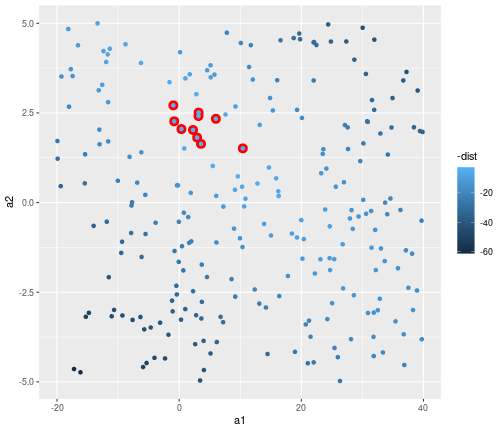
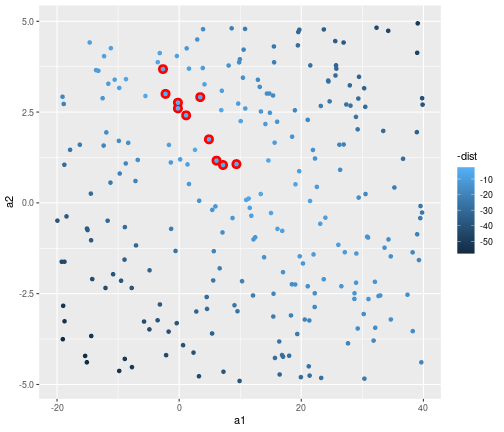
agregue link

diff --git a/models/23-pres.html b/models/23-pres.html
@@ -24,7 +24,7 @@ class: inverse, center
 
 
 ✨
-&lt;br&gt; Link &lt;&gt; 🌟
+&lt;br&gt; Link &lt;https://data-datum.github.io/models/models/23-pres.html#1&gt; 🌟
 
 ---
 
@@ -176,18 +176,18 @@ modelos
 
 ```
 ## # A tibble: 250 x 3
-##          a1     a2  dist
-##       &lt;dbl&gt;  &lt;dbl&gt; &lt;dbl&gt;
-##  1  35.4    -3.31  15.6 
-##  2   4.56   -2.08  25.4 
-##  3  37.5    -2.38  15.7 
-##  4  14.2    -2.93  22.6 
-##  5   3.58    1.64   3.81
-##  6  22.1     4.48  32.0 
-##  7  -5.71   -3.54  43.8 
-##  8  -0.0510 -0.536 20.1 
-##  9 -16.2    -4.73  60.9 
-## 10  10.3     0.443  5.79
+##         a1      a2  dist
+##      &lt;dbl&gt;   &lt;dbl&gt; &lt;dbl&gt;
+##  1   6.91   2.55    6.03
+##  2   0.642 -3.92   40.3 
+##  3  28.7   -2.64   13.7 
+##  4  26.9    4.42   36.4 
+##  5   9.94   3.95   17.2 
+##  6   1.61   3.70    8.26
+##  7  32.1   -3.44   16.1 
+##  8 -15.1   -0.708  35.5 
+##  9 -19.9   -0.490  38.9 
+## 10  11.0    0.0815  7.29
 ## # … with 240 more rows
 ```
 
